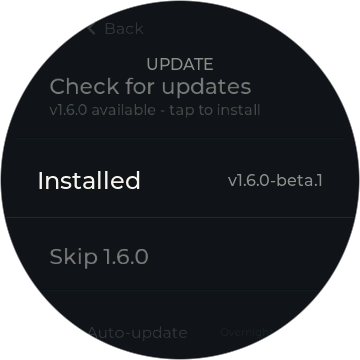
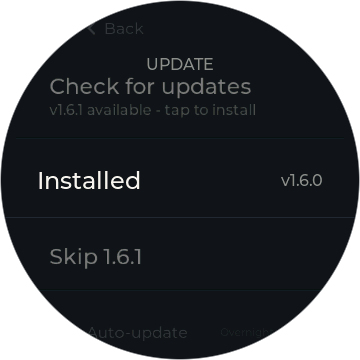
release: v1.6.0 — promote 1.6.0-beta.1 to stable
Rolls 1.6.0-beta.1 up to the stable channel. No firmware changes vs
1.6.0-beta.1 — this is the beta tree with PROJECT_VER bumped to 1.6.0, the
simulator version bumped to match (SIM_OTA_LATEST -> 1.6.1), a 1.6.0
CHANGELOG section, "1.6.0 betas and later" docs wording updated to 1.6.0, and
the version-driven about/update screenshots regenerated.

Headline: a calm "Sign-in expired" screen with a Renew button when Orion ends
the dial's sign-in session, instead of an unexplained full-screen setup QR.

Changed region(s): [[0.2139, 0.275, 0.7333, 0.3361], [0.6417, 0.4583, 0.9167, 0.5194], [0.3667, 0.6722, 0.4278, 0.7333]]

diff --git a/simulator/main.c b/simulator/main.c
@@ -44,7 +44,7 @@
 // simulator reports as installed (stubs.c's esp_app_desc_t, which tracks
 // PROJECT_VER) — otherwise the screenshots show a dial offering to update
 // itself to something it already runs. Bump it with each release.
-#define SIM_OTA_LATEST "1.6.0"
+#define SIM_OTA_LATEST "1.6.1"
 
 /* ---- host framebuffer + LVGL display driver ----------------------------- */
 

diff --git a/simulator/stubs.c b/simulator/stubs.c
@@ -129,6 +129,6 @@ void dial_net_on_event(dial_net_event_cb_t cb) { (void)cb; }
 
 const esp_app_desc_t *esp_app_get_description(void)
 {
-    static const esp_app_desc_t desc = { .version = "1.6.0-beta.1", .idf_ver = "v6.0" };
+    static const esp_app_desc_t desc = { .version = "1.6.0", .idf_ver = "v6.0" };
     return &desc;
 }

diff --git a/CHANGELOG.md b/CHANGELOG.md
@@ -12,6 +12,50 @@ section in the same commit that bumps `PROJECT_VER`.
 Releases marked **(beta)** were prereleases, visible only to dials with
 "Beta builds" turned on.
 
+## 1.6.0 — 2026-10-07
+
+The 1.6.0 stable release, rolling up 1.6.0-beta.1.
+
+### Added
+
+- **A calm "Sign-in expired" screen.** Every so often Orion ends the dial's
+  sign-in on its side (the one time we've measured it, that was about 30 days
+  after linking), and the dial can't extend it. Until now that moment looked
+  exactly like first-time setup: a full-screen QR code appeared out of nowhere,
+  which read as "something broke." Now the dial shows a quiet screen titled
+  **"Sign-in expired"**, reading "Your bed is still running its schedule.
+  Renew whenever you're ready." (it is: the topper keeps following its
+  schedule without the dial), with a single **Renew sign-in** button. Renewing
+  takes under a minute.
+  - The QR code only appears after you tap **Renew sign-in**. Swipe right to go
+    back without renewing.
+  - If you leave the QR code up and walk away, the dial returns to the calm
+    screen on its own after 5 minutes.
+  - While it waits, the dial stops contacting Orion and the sign-in relay; it
+    only checks for updates if you ask from the menu.
+  - Swipe left for the menu (Re-link, Wi-Fi, About, Update) as usual.
+
+### Changed
+
+- **No more "Orion unreachable" flash when the sign-in ended while the dial was
+  off.** If your sign-in expired while the dial was unplugged, it now goes
+  straight to the calm screen when it starts up.
+- **Fewer false alarms at startup.** When the dial's first sign-in check after
+  starting up is turned down, it now retries once quietly on "Linking to
+  Orion..." instead of flashing "Orion unreachable", and it uses the same
+  two-in-a-row rule as the running dial before deciding the sign-in has
+  ended.
+
+### Fixed
+
+- **Re-link, Change network and Factory reset could get stuck on the link
+  screens** when an update check was still pending. They now go through right
+  away.
+- **Check for updates now works from the link and Sign-in expired screens.**
+  Before, Menu → Update there only gave a buzz and did nothing.
+- **The link screens now dim at night like the rest of the dial.** They used
+  to stay at daytime brightness all night.
+
 ## 1.6.0-beta.1 — 2026-10-07 (beta)
 
 ### Added

diff --git a/README.md b/README.md
@@ -79,8 +79,8 @@ board bring-up notes, and firmware architecture live in
   periodically on its side (we've observed about 30 days after linking), and
   the dial can't extend them. When it happens the dial shows a quiet "Sign-in
   expired" screen (your bed keeps running its schedule meanwhile) with a
-  **Renew sign-in** button, and renewing takes under a minute. *(1.6.0 betas
-  and later.)*
+  **Renew sign-in** button, and renewing takes under a minute. *(1.6.0 and
+  later.)*
 - **Dual-zone control** with a side picker, so one dial can drive either
   half of the bed — plus screen rotation, so the same board reads right
   from either nightstand.

diff --git a/firmware/dial-idf/README.md b/firmware/dial-idf/README.md
@@ -268,7 +268,7 @@ itself:
   it takes under a minute. Swipe right on the QR to back out, and if you leave
   it up the dial returns to the calm screen after 5 minutes. While it waits,
   the dial stops contacting Orion and the sign-in relay; it only checks for
-  updates if you ask from the menu. (Firmware 1.6.0 betas and later; older
+  updates if you ask from the menu. (Firmware 1.6.0 and later; older
   firmware shows the setup QR straight away instead.)
 - **The dial is stuck on "Connecting to Wi-Fi..." / "Orion unreachable."**
   These screens show the actual error and a retry countdown; the dial keeps
